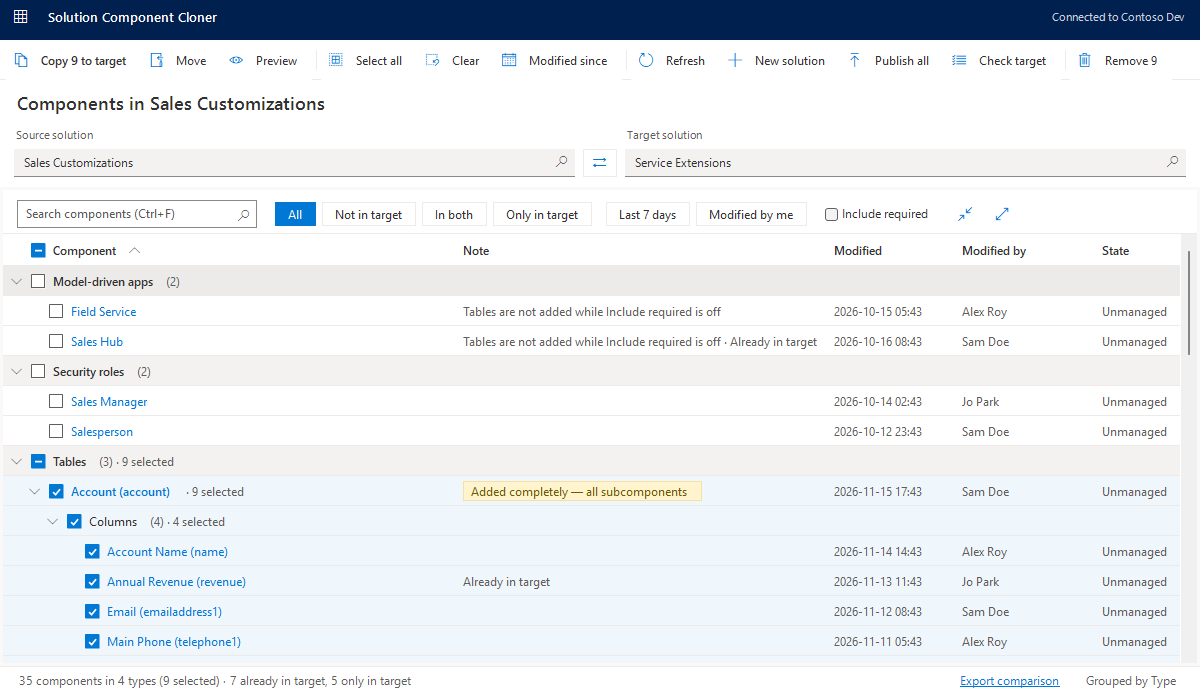
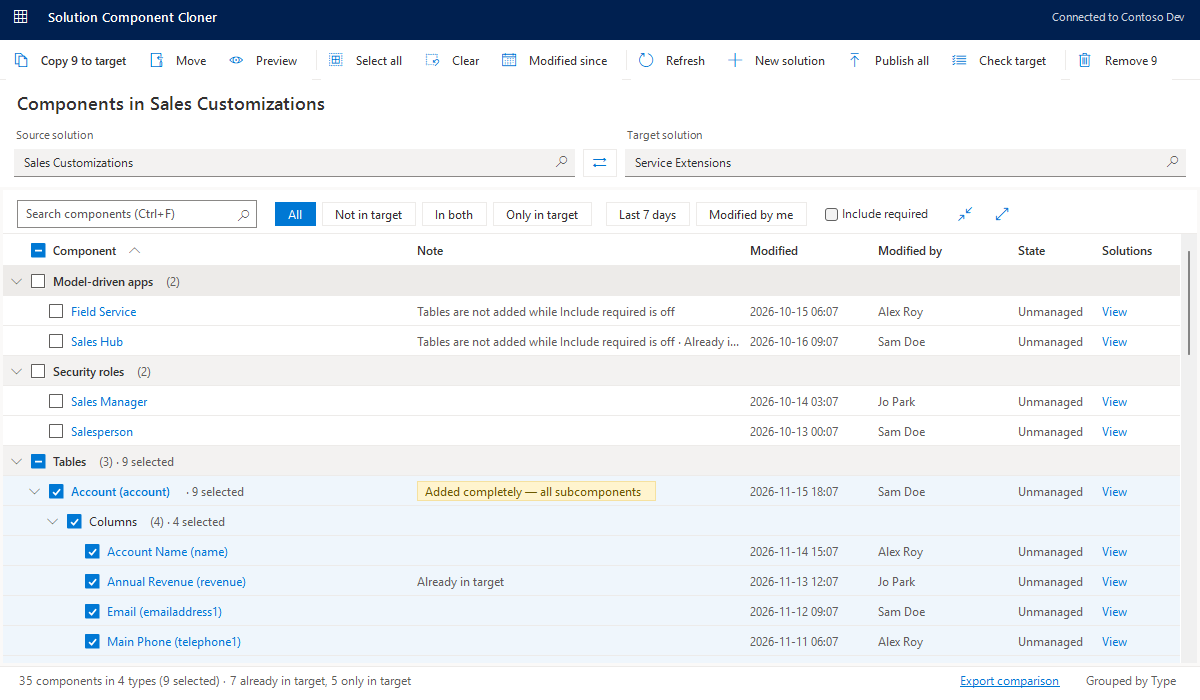
Show where a component is used through a View link in a Solutions column instead of the right-click menu

diff --git a/SolutionComponentCloner/UI/GroupedComponentGrid.cs b/SolutionComponentCloner/UI/GroupedComponentGrid.cs
@@ -30,6 +30,9 @@ namespace SolutionComponentCloner.UI
         private const int ColModified = 2;
         private const int ColModifiedBy = 3;
         private const int ColState = 4;
+        private const int ColSolutions = 5;
+        private const string WhereUsedLink = "View";
+        private static readonly Font LinkHoverFont = new Font(Theme.FontRegular, FontStyle.Underline);
 
         private List<SolutionComponentItem> _allItems = new List<SolutionComponentItem>();
         private List<ComponentNode> _roots = new List<ComponentNode>();
@@ -45,14 +48,22 @@ namespace SolutionComponentCloner.UI
         private ComponentSort _sort = new ComponentSort { Column = ComponentSortColumn.Name };
         private int _visibleCount;
         private bool _includeRequired;
+        private int _hoverLinkRow = -1;
 
         public event EventHandler ComponentSelectionChanged;
         public event EventHandler ViewChanged;
 
-        /// <summary>Raised when "Which solutions contain this?" is picked from a component's right-click menu.</summary>
+        /// <summary>Raised when a component's "View" link in the Solutions column is clicked.</summary>
         public event Action<SolutionComponentItem> WhereUsedRequested;
 
         public bool ShowCheckBoxes { get; set; } = true;
+
+        /// <summary>Whether to show the Solutions column, whose "View" link lists the solutions that contain a component.</summary>
+        public bool ShowWhereUsed
+        {
+            get => Columns[ColSolutions].Visible;
+            set => Columns[ColSolutions].Visible = value;
+        }
 
         /// <summary>The components that are only in the target cannot be copied, so that view has no checkboxes.</summary>
         private bool CheckBoxesShown => ShowCheckBoxes && _membership != MembershipFilter.OnlyInTarget;
@@ -198,11 +209,45 @@ namespace SolutionComponentCloner.UI
             AddColumn("Modified", width: 128);
             AddColumn("Modified by", width: 140);
             AddColumn("State", width: 84);
+            AddColumn("Solutions", width: 84);
+            Columns[ColSolutions].Visible = false;
 
             CellValueNeeded += (s, e) => e.Value = string.Empty;
             CellPainting += OnCellPainting;
             CellMouseClick += OnCellMouseClick;
+            CellMouseMove += (s, e) => SetHoverLinkRow(e.ColumnIndex == ColSolutions && IsLinkRow(e.RowIndex) ? e.RowIndex : -1);
+            CellMouseLeave += (s, e) => SetHoverLinkRow(-1);
+            CellToolTipTextNeeded += (s, e) =>
+            {
+                if (e.ColumnIndex == ColSolutions && (e.RowIndex == -1 || IsLinkRow(e.RowIndex)))
+                {
+                    e.ToolTipText = "List the solutions that contain this component";
+                }
+            };
             ColumnHeaderMouseClick += OnHeaderMouseClick;
+        }
+
+        private bool IsLinkRow(int rowIndex) => rowIndex >= 0 && rowIndex < _rows.Count && _rows[rowIndex].Item != null;
+
+        private void SetHoverLinkRow(int rowIndex)
+        {
+            if (rowIndex == _hoverLinkRow)
+            {
+                return;
+            }
+
+            var previous = _hoverLinkRow;
+            _hoverLinkRow = rowIndex;
+            Cursor = rowIndex >= 0 ? Cursors.Hand : Cursors.Default;
+            if (previous >= 0 && previous < RowCount)
+            {
+                InvalidateCell(ColSolutions, previous);
+            }
+
+            if (rowIndex >= 0)
+            {
+                InvalidateCell(ColSolutions, rowIndex);
+            }
         }
 
         private void AddColumn(string header, float fillWeight = 0, int width = 0)
@@ -491,10 +536,9 @@ namespace SolutionComponentCloner.UI
 
             if (e.Button == MouseButtons.Right)
             {
-                if (node.Item != null)
+                if (node.IsTable && node.Item != null && CheckBoxesShown)
                 {
-                    CurrentCell = this[0, e.RowIndex];
-                    ShowComponentMenu(node, e);
+                    ShowSubcomponentMenu(node, e);
                 }
 
                 return;
@@ -502,6 +546,16 @@ namespace SolutionComponentCloner.UI
 
             if (e.Button != MouseButtons.Left)
             {
+                return;
+            }
+
+            if (e.ColumnIndex == ColSolutions)
+            {
+                if (node.Item != null)
+                {
+                    WhereUsedRequested?.Invoke(node.Item);
+                }
+
                 return;
             }
 
@@ -517,20 +571,12 @@ namespace SolutionComponentCloner.UI
             }
         }
 
-        private void ShowComponentMenu(ComponentNode node, DataGridViewCellMouseEventArgs e)
+        private void ShowSubcomponentMenu(ComponentNode node, DataGridViewCellMouseEventArgs e)
         {
             var menu = new ContextMenuStrip();
-            var whereUsed = new ToolStripMenuItem("Which solutions contain this?");
-            whereUsed.Click += (s, args) => WhereUsedRequested?.Invoke(node.Item);
-            menu.Items.Add(whereUsed);
-
-            if (node.IsTable && CheckBoxesShown)
-            {
-                menu.Items.Add(new ToolStripSeparator());
-                AddModeItem(menu, node, "Follow the \"Include required components\" checkbox", SubcomponentMode.UseGlobalSetting);
-                AddModeItem(menu, node, "Include all of the table's subcomponents", SubcomponentMode.IncludeAll);
-                AddModeItem(menu, node, "Only the subcomponents I ticked", SubcomponentMode.OnlySelected);
-            }
+            AddModeItem(menu, node, "Follow the \"Include required components\" checkbox", SubcomponentMode.UseGlobalSetting);
+            AddModeItem(menu, node, "Include all of the table's subcomponents", SubcomponentMode.IncludeAll);
+            AddModeItem(menu, node, "Only the subcomponents I ticked", SubcomponentMode.OnlySelected);
 
             var cell = GetCellDisplayRectangle(e.ColumnIndex, e.RowIndex, false);
             menu.Show(this, new Point(cell.Left + e.X, cell.Top + e.Y));
@@ -652,6 +698,14 @@ namespace SolutionComponentCloner.UI
                     break;
                 case ColState:
                     PaintText(g, bounds, node.Item?.IsManaged == true ? "Managed" : node.Item?.IsManaged == false ? "Unmanaged" : null);
+                    break;
+                case ColSolutions:
+                    if (node.Item != null)
+                    {
+                        TextRenderer.DrawText(g, WhereUsedLink, e.RowIndex == _hoverLinkRow ? LinkHoverFont : Theme.FontRegular,
+                            new Rectangle(bounds.Left + 6, bounds.Top, Math.Max(0, bounds.Width - 6), bounds.Height), Theme.Accent,
+                            TextFormatFlags.VerticalCenter | TextFormatFlags.Left | TextFormatFlags.NoPadding);
+                    }
                     break;
             }
 

diff --git a/SolutionComponentCloner/UI/PluginControl.Layout.cs b/SolutionComponentCloner/UI/PluginControl.Layout.cs
@@ -651,7 +651,7 @@ namespace SolutionComponentCloner.UI
 
         private Control BuildSplit()
         {
-            _grid = new GroupedComponentGrid { Dock = DockStyle.Fill };
+            _grid = new GroupedComponentGrid { Dock = DockStyle.Fill, ShowWhereUsed = true };
             _grid.ComponentSelectionChanged += (s, e) => UpdateSelectionUi();
             _grid.ViewChanged += (s, e) => UpdateFooter();
             _grid.WhereUsedRequested += ShowSolutionsContaining;

diff --git a/README.md b/README.md
@@ -37,7 +37,8 @@ solution into another, browsing the source solution the way the Power Apps solut
   and stay in the environment and in other solutions, and *Add back* undoes it.
 - **Check the target** – *Check target* lists the components the target solution depends on but does not
   contain, and adds the ones you tick, so the solution imports cleanly elsewhere.
-- **Which solutions contain this?** – right-click any component to list every solution that contains it.
+- **Which solutions contain this?** – the *View* link in the Solutions column lists every solution that
+  contains a component.
 - **Readable names everywhere** – including custom and ISV component types, which are resolved through
   `solutioncomponentdefinition`. Solutions and components with thousands of rows are loaded in full.
 
